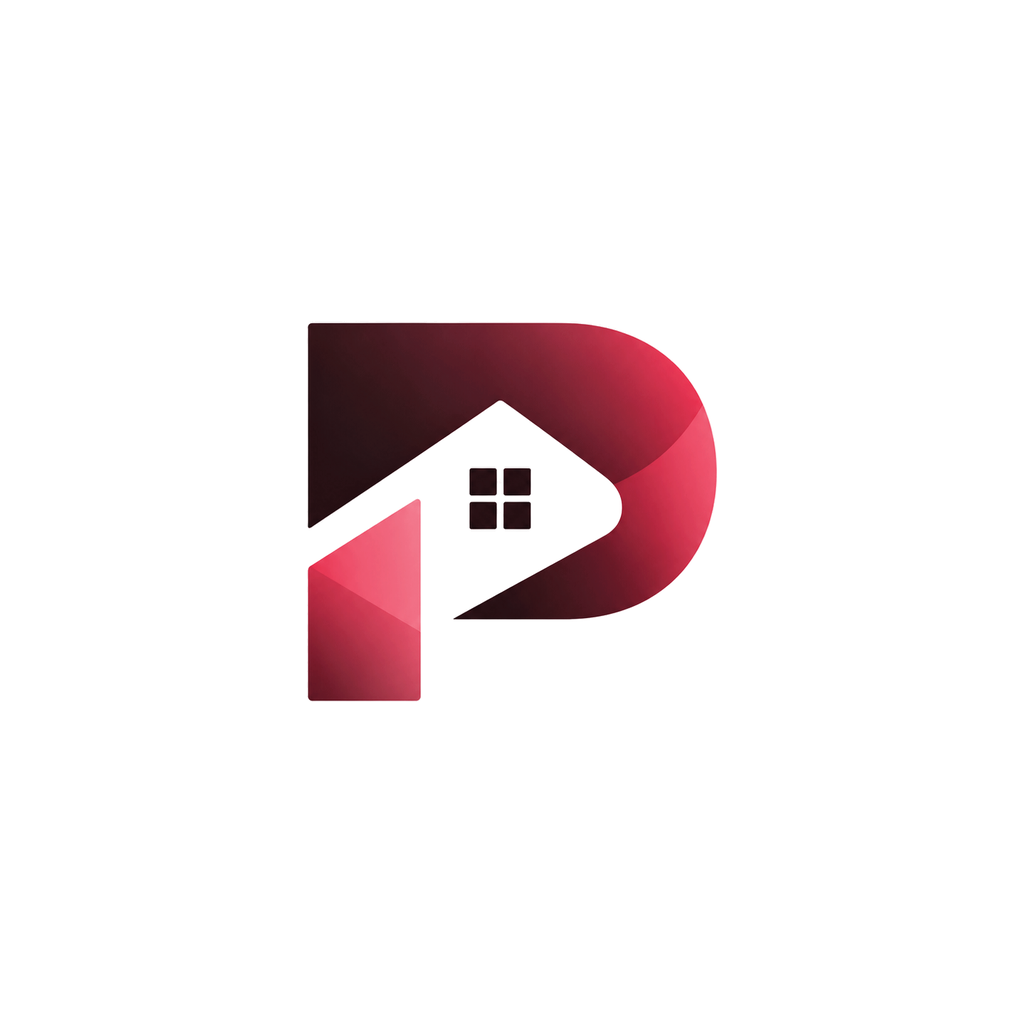
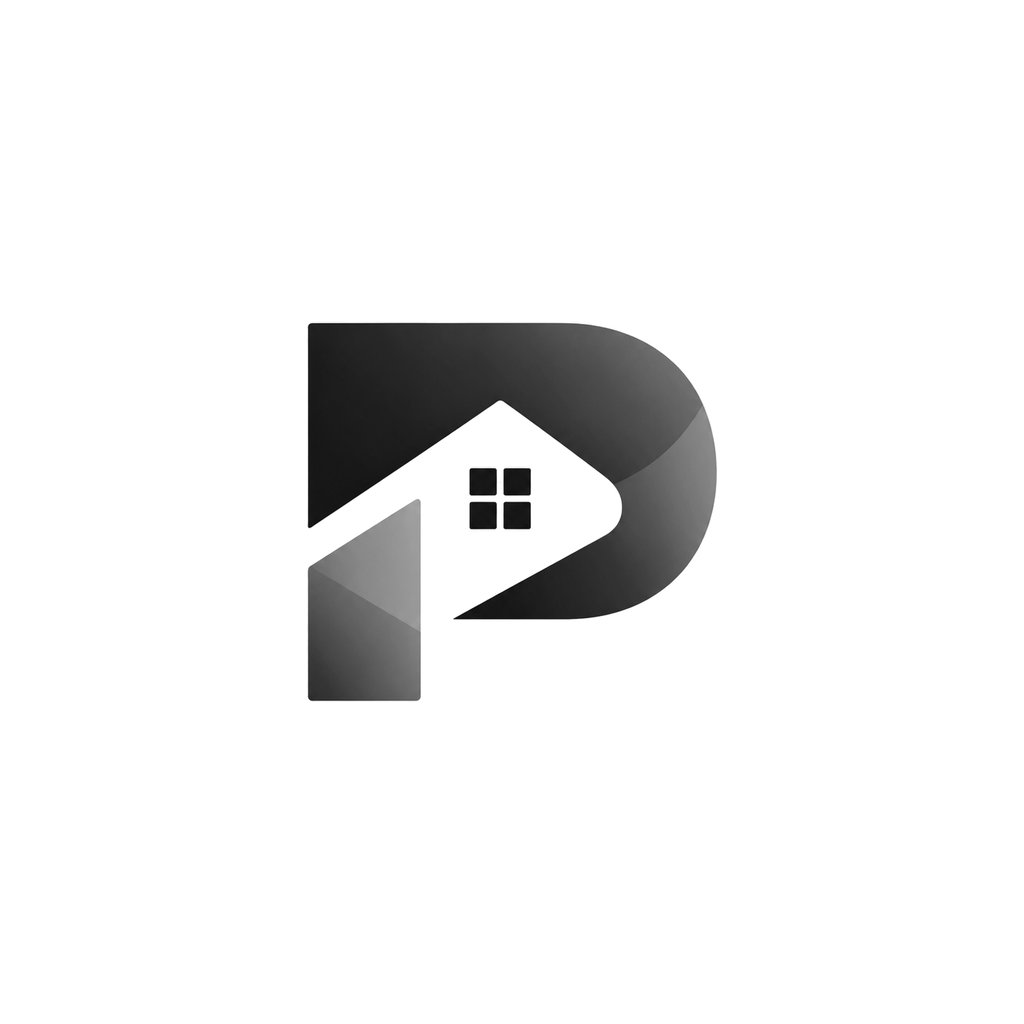
Mobile: monochrome theme matching the web
The maroon-and-cream skin becomes black ink on white with grey softs,
the same steps as the web's tokens; ok/warn/danger keep their hues so
status still reads at a glance. App icons, splash and logo desaturated
to match.

Changed region(s): [[0.3125, 0.3125, 0.7188, 0.625], [0.2812, 0.4688, 0.4375, 0.6875]]

diff --git a/mobile/app/theme/colors.ts b/mobile/app/theme/colors.ts
@@ -1,61 +1,61 @@
 /**
- * Light theme — the app's own look, not the web's.
+ * Light theme — monochrome, matching the web.
  *
- * Warm paper rather than cold white, one deep maroon doing the work of a brand colour, and status colours
- * muted enough to sit on a cream page: a desk uses this at arm's length in daylight, and the screen should
- * read as calm rather than as a dashboard. The web app keeps its own palette; only the API is shared.
+ * Black ink on white, grey for everything that used to be a brand colour. Only the status colours (ok, warn,
+ * danger) keep a hue, because "occupied", "due" and "failed" must read at a glance; they use the web's values
+ * so both apps say the same thing in the same colour.
  */
 const palette = {
-  bg: "#f5efe9",
+  bg: "#f7f7f7",
   surface: "#ffffff",
-  surface2: "#faf5f0",
+  surface2: "#fafafa",
   raised: "#ffffff",
-  ink: "#241d1a",
-  inkSoft: "#7b6e66",
-  inkFaint: "#a89c93",
-  line: "#eadfd6",
-  lineStrong: "#dccec2",
-  onSolid: "#fdf8f4",
+  ink: "#171717",
+  inkSoft: "#595959",
+  inkFaint: "#8f8f8f",
+  line: "#e8e8e8",
+  lineStrong: "#d4d4d4",
+  onSolid: "#ffffff",
 
-  brand: "#7a1f2b",
-  brandStrong: "#5d141e",
-  brandSoft: "#f7e6e7",
-  brandInk: "#7a1f2b",
-  teal: "#2f7d62",
-  tealSoft: "#e3efe9",
-  violet: "#6b4fd8",
-  violetSoft: "#ece7fb",
-  ok: "#2f7d52",
-  okSoft: "#e3f0e8",
-  warn: "#b07d25",
-  warnSoft: "#f8eedc",
-  danger: "#a8392a",
-  dangerSoft: "#f7e4e0",
-  info: "#45628f",
-  infoSoft: "#e8edf6",
-  neutral: "#7b6e66",
-  neutralSoft: "#f0e9e2",
-  chart: "#8a5a3b",
+  brand: "#171717",
+  brandStrong: "#000000",
+  brandSoft: "#ececec",
+  brandInk: "#171717",
+  teal: "#525252",
+  tealSoft: "#ededed",
+  violet: "#737373",
+  violetSoft: "#f1f1f1",
+  ok: "#107c41",
+  okSoft: "#e2f3e9",
+  warn: "#b25e00",
+  warnSoft: "#fdf0dd",
+  danger: "#c4314b",
+  dangerSoft: "#fbe8ec",
+  info: "#595959",
+  infoSoft: "#ececec",
+  neutral: "#595959",
+  neutralSoft: "#efefef",
+  chart: "#171717",
 
   // Aliases the Ignite Toggle components expect; mapped onto the Padav palette.
   neutral100: "#ffffff",
-  neutral200: "#faf5f0",
-  neutral300: "#eadfd6",
-  neutral400: "#dccec2",
-  neutral500: "#a89c93",
-  neutral600: "#7b6e66",
-  neutral700: "#4a3f39",
-  neutral800: "#241d1a",
+  neutral200: "#fafafa",
+  neutral300: "#e8e8e8",
+  neutral400: "#d4d4d4",
+  neutral500: "#8f8f8f",
+  neutral600: "#595959",
+  neutral700: "#3a3a3a",
+  neutral800: "#171717",
   neutral900: "#000000",
-  primary500: "#7a1f2b",
-  secondary500: "#7a1f2b",
-  accent100: "#f7e6e7",
-  accent500: "#7a1f2b",
-  angry100: "#f7e4e0",
-  angry500: "#a8392a",
+  primary500: "#171717",
+  secondary500: "#171717",
+  accent100: "#ececec",
+  accent500: "#171717",
+  angry100: "#fbe8ec",
+  angry500: "#c4314b",
 
-  overlay20: "rgba(36, 29, 26, 0.2)",
-  overlay50: "rgba(36, 29, 26, 0.5)",
+  overlay20: "rgba(0, 0, 0, 0.2)",
+  overlay50: "rgba(0, 0, 0, 0.5)",
 } as const
 
 export const colors = {
@@ -85,6 +85,6 @@ export const colors = {
   errorBackground: palette.dangerSoft,
   /** Text on a solid primary button. */
   onSolid: palette.onSolid,
-  /** Solid button: the app's maroon, where the web uses ink. */
+  /** Solid button: ink, as on the web. */
   primaryButton: palette.brand,
 } as const

diff --git a/mobile/app/theme/colorsDark.ts b/mobile/app/theme/colorsDark.ts
@@ -1,51 +1,51 @@
-/** Dark theme: the same warm, low-contrast idea at night. Same keys as `colors.ts`. */
+/** Dark theme: the same monochrome idea at night. Same keys as `colors.ts`. */
 const palette = {
-  bg: "#17110f",
-  surface: "#211917",
-  surface2: "#2a201d",
-  raised: "#332724",
-  ink: "#f2e9e2",
-  inkSoft: "#b6a79d",
-  inkFaint: "#897a71",
-  line: "#332724",
-  lineStrong: "#453631",
-  onSolid: "#17110f",
+  bg: "#121212",
+  surface: "#1b1b1b",
+  surface2: "#222222",
+  raised: "#343434",
+  ink: "#ededed",
+  inkSoft: "#ababab",
+  inkFaint: "#767676",
+  line: "#2c2c2c",
+  lineStrong: "#404040",
+  onSolid: "#121212",
 
-  brand: "#e2808c",
-  brandStrong: "#edA0a9",
-  brandSoft: "#3a1e22",
-  brandInk: "#eb98a3",
-  teal: "#5cbfa0",
-  tealSoft: "#16302a",
-  violet: "#b39df5",
-  violetSoft: "#2a2344",
-  ok: "#5fbd84",
-  okSoft: "#15301f",
-  warn: "#dfab5a",
-  warnSoft: "#33270f",
-  danger: "#e38577",
-  dangerSoft: "#3a211c",
-  info: "#8aa6d8",
-  infoSoft: "#1e2838",
-  neutral: "#b6a79d",
-  neutralSoft: "#2a201d",
-  chart: "#c08a63",
+  brand: "#ededed",
+  brandStrong: "#ffffff",
+  brandSoft: "#2f2f2f",
+  brandInk: "#ededed",
+  teal: "#b0b0b0",
+  tealSoft: "#272727",
+  violet: "#949494",
+  violetSoft: "#2b2b2b",
+  ok: "#52c47e",
+  okSoft: "#112b1b",
+  warn: "#f1a54d",
+  warnSoft: "#33230f",
+  danger: "#f2758d",
+  dangerSoft: "#35161e",
+  info: "#ababab",
+  infoSoft: "#2f2f2f",
+  neutral: "#ababab",
+  neutralSoft: "#222222",
+  chart: "#d4d4d4",
 
-  neutral100: "#211917",
-  neutral200: "#2a201d",
-  neutral300: "#332724",
-  neutral400: "#453631",
-  neutral500: "#897a71",
-  neutral600: "#b6a79d",
-  neutral700: "#d6c9c0",
-  neutral800: "#f2e9e2",
+  neutral100: "#1b1b1b",
+  neutral200: "#222222",
+  neutral300: "#2c2c2c",
+  neutral400: "#404040",
+  neutral500: "#767676",
+  neutral600: "#ababab",
+  neutral700: "#d4d4d4",
+  neutral800: "#ededed",
   neutral900: "#ffffff",
-  primary500: "#e2808c",
-  secondary500: "#e2808c",
-  accent100: "#3a1e22",
-  accent500: "#e2808c",
-  angry100: "#3a211c",
-  angry500: "#e38577",
+  primary500: "#ededed",
+  secondary500: "#ededed",
+  accent100: "#2f2f2f",
+  accent500: "#ededed",
+  angry100: "#35161e",
+  angry500: "#f2758d",
 
   overlay20: "rgba(0, 0, 0, 0.3)",
   overlay50: "rgba(0, 0, 0, 0.6)",
